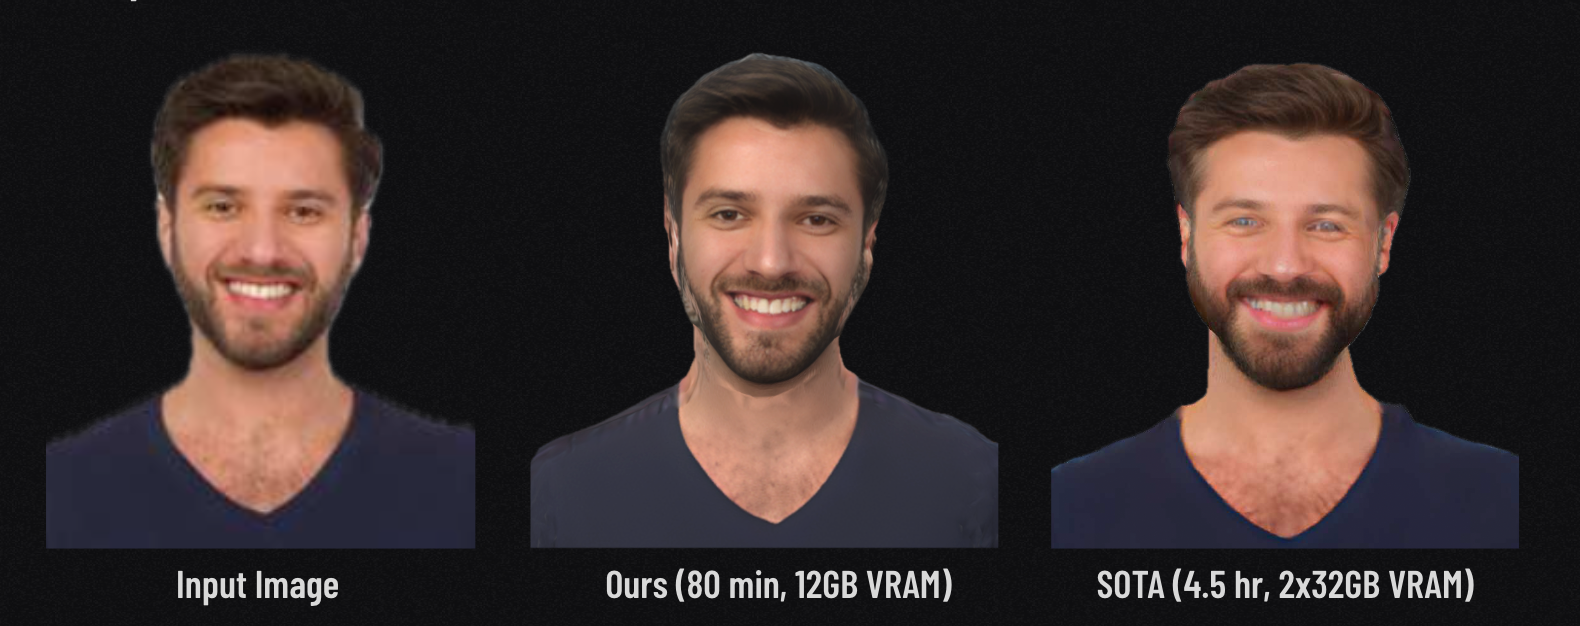
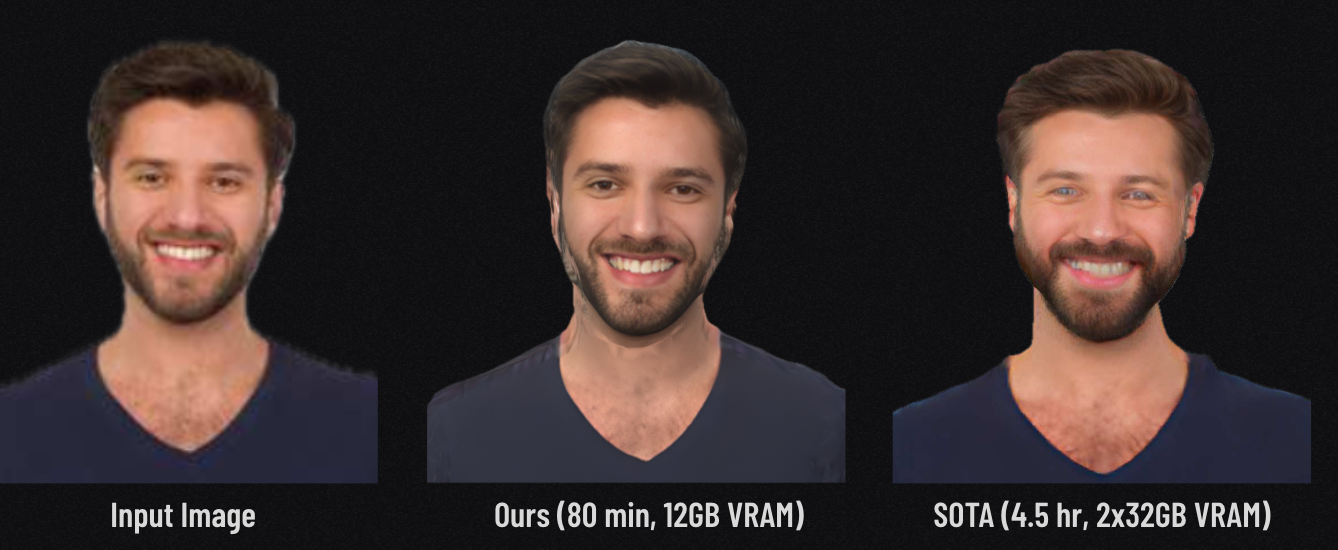
Updates

diff --git a/index.html b/index.html
@@ -4,7 +4,7 @@
     <meta charset="UTF-8" />
     <link rel="icon" type="image/svg+xml" href="/assets/icon/favicon.png" />
     <meta name="viewport" content="width=device-width, initial-scale=1.0" />
-    <meta name="version" content="202505132301" />
+    <meta name="version" content="202505132333" />
     <title>Howard</title>
     <script type="module" crossorigin src="/assets/index-BDDZmZfY.js"></script>
     <link rel="stylesheet" crossorigin href="/assets/index-BYQRKRuh.css">
